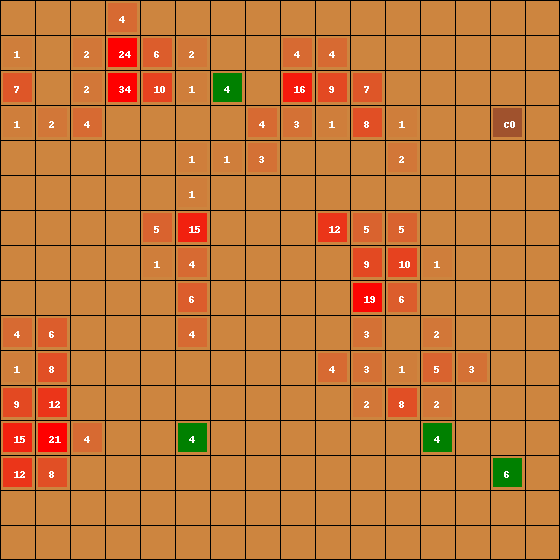
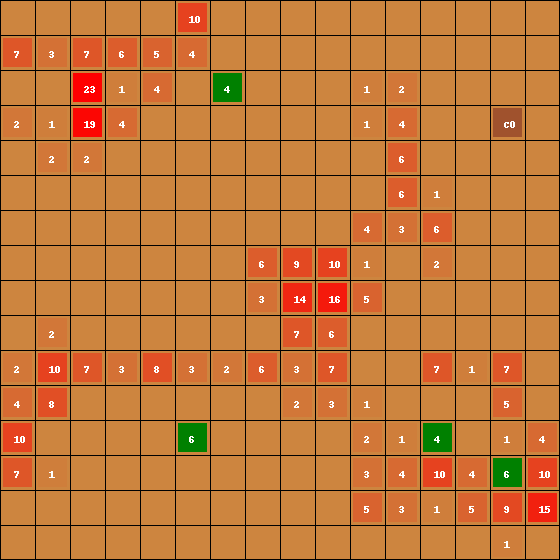
HALF

diff --git a/Project/multi_agent_teams.py b/Project/multi_agent_teams.py
@@ -107,7 +107,7 @@ if __name__ == '__main__':
     opt = parser.parse_args()
 
     # 1 - Setup the environment
-    environment = AntColonyEnv(grid_shape=(16, 16), n_agents=4, max_steps=opt.steps, n_foodpiles=4, n_episodes=opt.episodes)
+    environment = AntColonyEnv(grid_shape=(16, 16), n_agents=4, max_steps=opt.steps, n_foodpiles=4, n_episodes=opt.episodes, pheromone_evaporation_rate=0.5)
 
     # 3 - Evaluate teams
     results = run_multi_agent(environment, opt.episodes, opt.steps)
